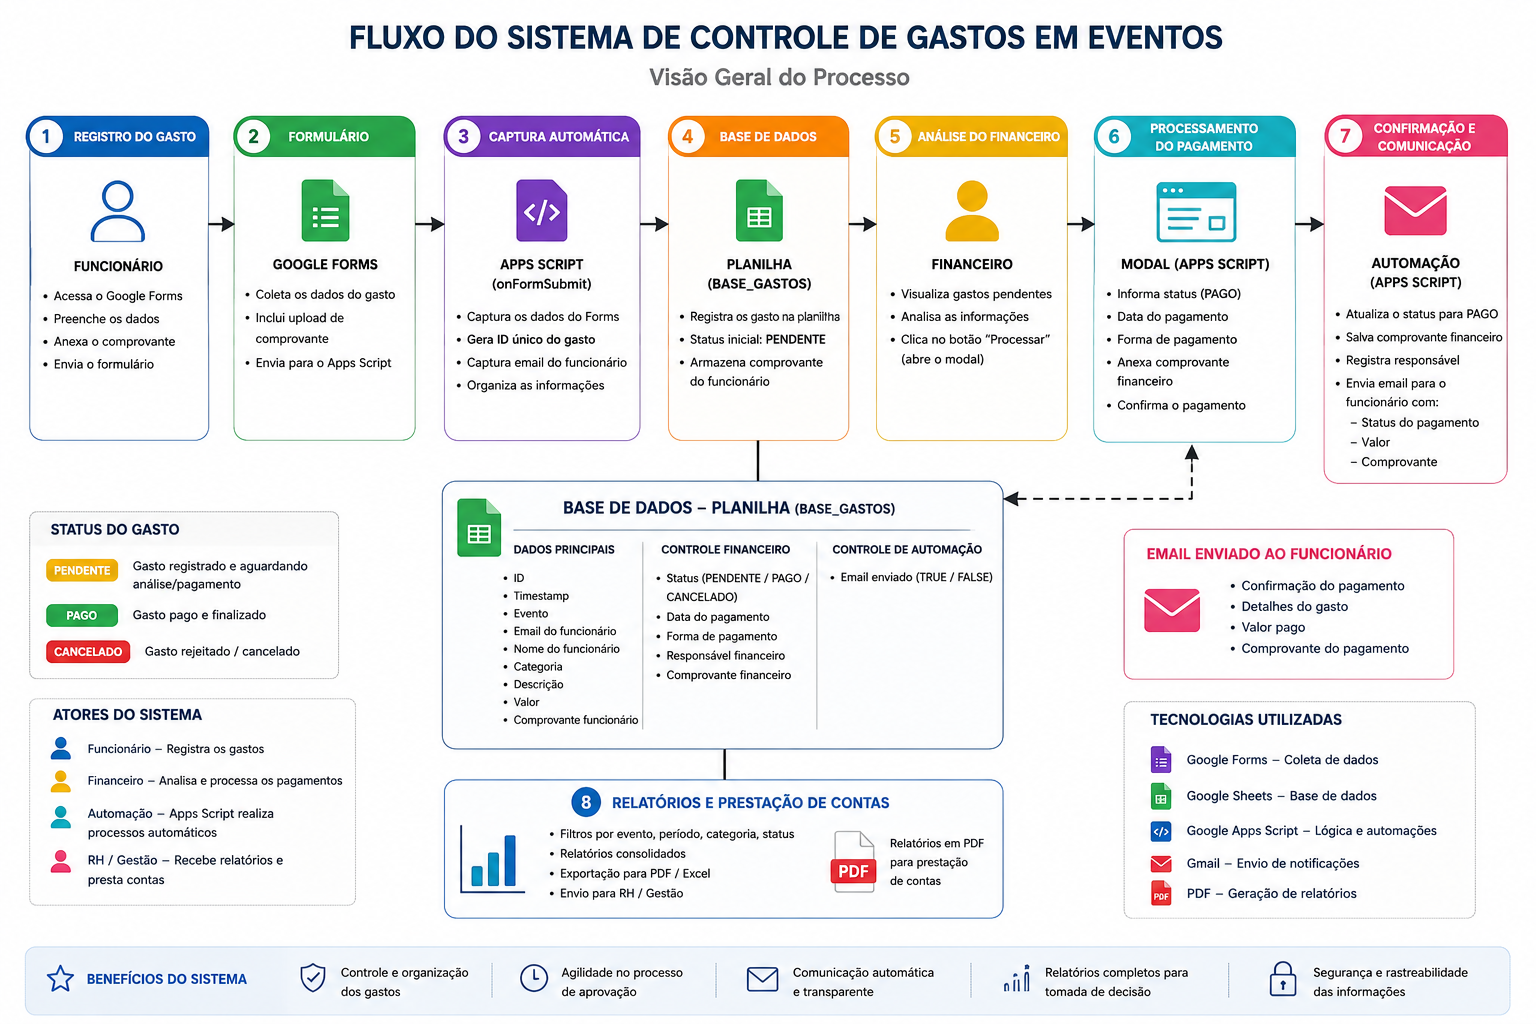
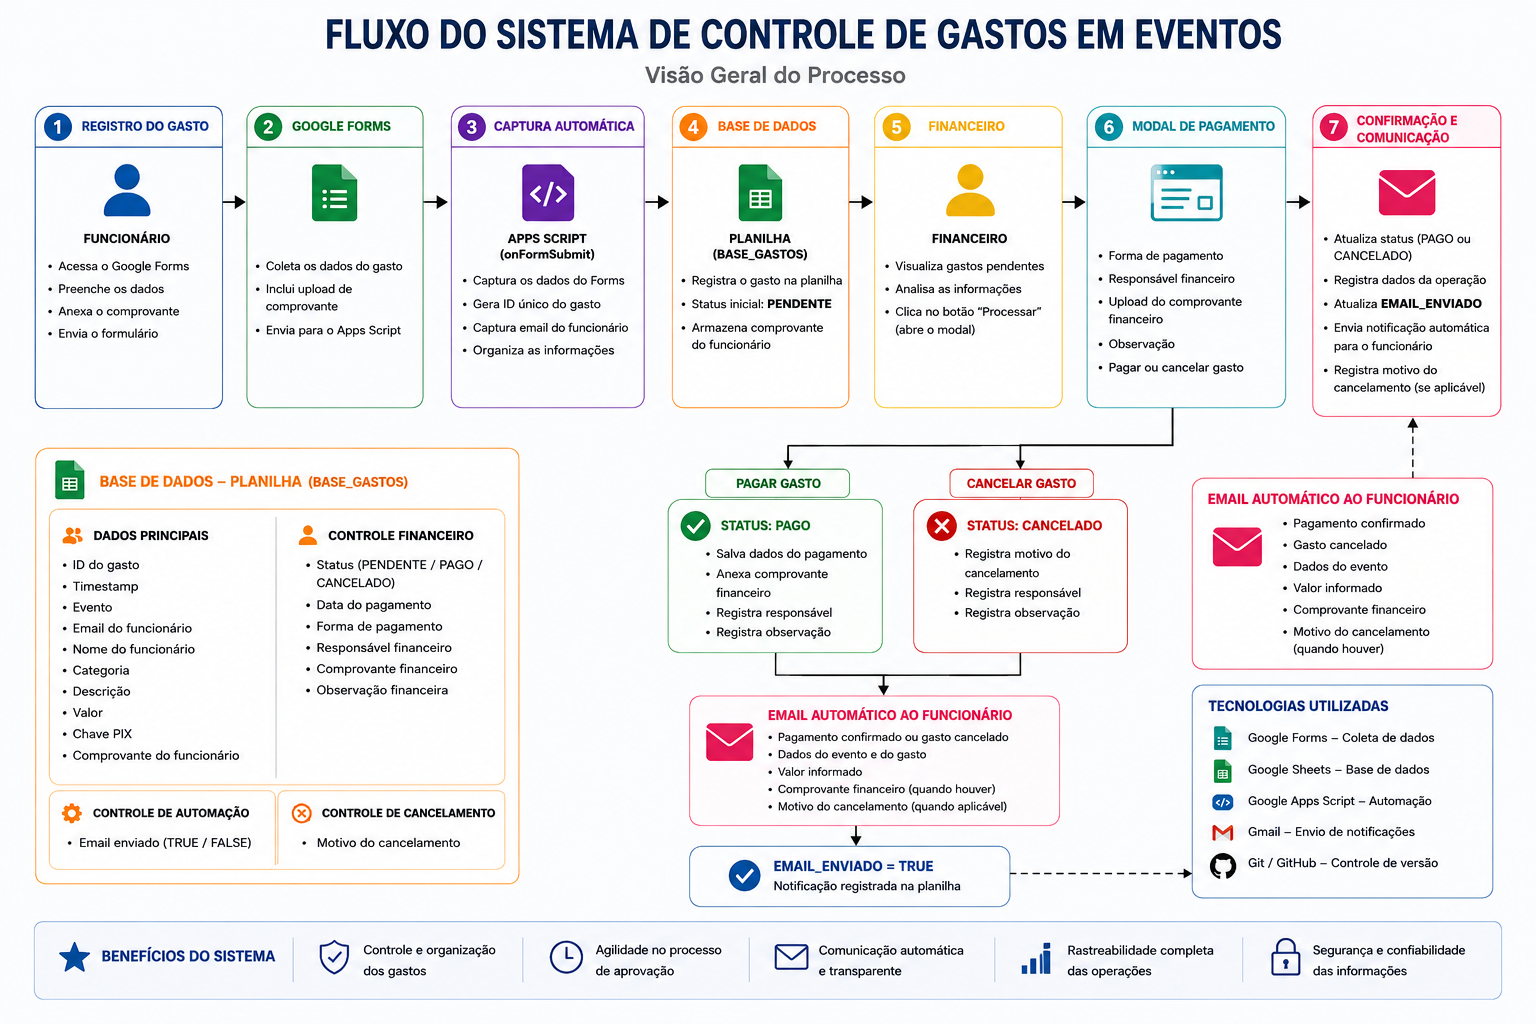
docs: atualiza README e documentação do projeto

Changed region(s): [[0.0, 0.0, 1.0, 1.0]]

diff --git a/README.md b/README.md
@@ -1,37 +1,154 @@
 # Event-Expense-Manager-Novazul
 
-Sistema de controle de gastos em eventos corporativos, desenvolvido com Google Apps Script.
+Sistema de controle e automação de gastos em eventos corporativos, desenvolvido com Google Forms, Google Sheets e Google Apps Script.
 
-## 🚀 Objetivo
+## 🚀 Sobre o Projeto
 
-Automatizar o registro, aprovação e pagamento de gastos realizados por funcionários em eventos.
+Este projeto foi desenvolvido a partir de uma necessidade real observada dentro da Novazul.
+
+Durante a rotina da empresa, o processo de solicitação e pagamento de gastos realizados por funcionários em eventos era feito de forma manual, envolvendo envio de comprovantes por mensagens, conferência de informações, cobranças recorrentes ao setor financeiro e pouca rastreabilidade sobre o status dos pagamentos.
+
+A partir desse cenário, surgiu a ideia de criar uma solução simples, centralizada e automatizada para organizar todo o fluxo de registro, análise e pagamento dos gastos.
+
+O projeto foi idealizado, estruturado e desenvolvido individualmente por Pedro Canuto, utilizando ferramentas do ecossistema Google para garantir baixo custo de implementação, facilidade de manutenção e rápida adoção pela equipe.
+
+---
+
+## 🎯 Objetivo
+
+Automatizar o processo de controle de gastos em eventos corporativos, proporcionando:
+
+* Organização das solicitações
+* Centralização das informações
+* Rastreabilidade dos pagamentos
+* Comunicação automática com os funcionários
+* Redução de atividades manuais do setor financeiro
+
+---
 
 ## 🧠 Funcionalidades
 
-- Registro de gastos via Google Forms
-- Armazenamento em Google Sheets
-- Processamento via Apps Script
-- Interface para financeiro
-- Envio automático de emails
-- Geração de relatórios
+### Registro de Gastos
 
-## 🔄 Fluxo do sistema
+* Solicitação de gastos via Google Forms
+* Upload de comprovantes pelo funcionário
+* Captura automática das respostas
+
+### Automação
+
+* Geração automática de ID único para cada gasto
+* Registro automático na base de dados
+* Atualização automática da área financeira
+
+### Processamento Financeiro
+
+* Visualização dos gastos pendentes
+* Modal para processamento financeiro
+* Registro da forma de pagamento
+* Registro do responsável financeiro
+* Upload do comprovante financeiro
+* Inclusão de observações
+
+### Cancelamento de Gastos
+
+* Cancelamento diretamente pelo financeiro
+* Registro do motivo do cancelamento
+* Atualização automática do status
+
+### Comunicação Automática
+
+* Envio de e-mail quando o gasto é pago
+* Envio de e-mail quando o gasto é cancelado
+* Controle de notificação enviada (TRUE/FALSE)
+
+---
+
+## 🔄 Fluxo do Sistema
 
 ![Fluxo do sistema](docs/docsflow.png)
 
-## 🛠 Tecnologias
+---
 
-- Google Apps Script
-- Google Sheets
-- Google Forms
-- Gmail API
+## 🏗 Arquitetura
 
-## 📁 Estrutura
+### Google Forms
 
-- src/ → lógica do sistema
-- ui/ → interface
-- docs/ → documentação
+Responsável pela coleta das solicitações de gastos realizadas pelos funcionários.
 
-## 📌 Status do projeto
+### Google Apps Script
 
-🚧 Em desenvolvimento
+Responsável por toda a lógica de negócio, automações e integração entre os serviços.
+
+### Google Sheets
+
+Utilizado como base de dados do sistema.
+
+### Gmail
+
+Responsável pelo envio automático das notificações aos funcionários.
+
+### Google Drive
+
+Armazenamento dos comprovantes financeiros.
+
+---
+
+## 🛠 Tecnologias Utilizadas
+
+* Google Apps Script
+* Google Forms
+* Google Sheets
+* Gmail
+* Google Drive
+* Git
+* GitHub
+
+---
+
+## 📁 Estrutura do Projeto
+
+```text
+docs/
+├── docsflow.png
+
+src/
+├── config.gs
+├── formHandler.gs
+├── financeiro.gs
+├── emailService.gs
+├── utils.gs
+├── main.gs
+
+ui/
+├── modalPagamento.html
+```
+
+---
+
+## 📌 Principais Regras de Negócio
+
+* Todo gasto inicia com status PENDENTE
+* Cada gasto possui um ID único
+* Apenas gastos pendentes podem ser processados
+* Todo pagamento exige comprovante financeiro
+* Todo cancelamento exige motivo registrado
+* O sistema envia notificações automáticas ao funcionário
+* O envio da notificação é registrado na base de dados
+
+---
+
+## 📈 Resultados Esperados
+
+* Redução do trabalho manual do setor financeiro
+* Maior controle sobre pagamentos
+* Melhor comunicação entre funcionários e financeiro
+* Histórico centralizado das operações
+* Maior transparência e rastreabilidade do processo
+
+---
+
+## 👨💻 Autor
+
+Pedro Canuto
+
+Projeto desenvolvido como iniciativa de melhoria de processo interno e automação operacional para a Novazul.

diff --git a/docs/requeriments.md b/docs/requeriments.md
@@ -1,31 +1,116 @@
 # Requisitos do Sistema
 
 ## 🎯 Objetivo
-Sistema para controle de gastos em eventos da Novazul.
+
+Sistema para controle e automação do processo de reembolso e pagamento de gastos realizados em eventos da Novazul.
+
+O sistema permite que funcionários registrem despesas através de formulários, enquanto o setor financeiro analisa, aprova, paga ou cancela os gastos, mantendo todo o histórico centralizado e automatizando as comunicações por e-mail.
+
+---
 
 ## 👥 Atores
 
-- Funcionário
-- Financeiro
-- RH
+### Funcionário
 
-## 🔁 Fluxo
+* Registra solicitações de gastos
+* Anexa comprovantes
+* Recebe notificações automáticas
 
-1. Funcionário registra gasto
-2. Sistema captura dados
-3. Gasto é armazenado como PENDENTE
-4. Financeiro processa pagamento
-5. Sistema envia confirmação por email
-6. Relatórios são gerados
+### Financeiro
 
-## 📌 Regras de negócio
+* Analisa gastos pendentes
+* Processa pagamentos
+* Cancela gastos quando necessário
+* Anexa comprovantes financeiros
 
-- Todo gasto inicia como PENDENTE
-- Só pode ser marcado como PAGO com comprovante
-- Email é enviado após pagamento
+### RH / Gestão
 
-## 📊 Status possíveis
+* Consulta informações e histórico dos gastos
 
-- PENDENTE
-- PAGO
-- CANCELADO
+---
+
+## 🔁 Fluxo do Sistema
+
+1. Funcionário registra um gasto através do Google Forms
+2. O Apps Script captura automaticamente os dados enviados
+3. O sistema gera um ID único para o gasto
+4. O gasto é registrado na BASE_GASTOS com status PENDENTE
+5. A aba FINANCEIRO é atualizada automaticamente
+6. O setor financeiro analisa o gasto
+7. O financeiro pode:
+
+   * Processar o pagamento
+   * Cancelar o gasto
+8. Em caso de pagamento:
+
+   * Forma de pagamento é registrada
+   * Responsável financeiro é registrado
+   * Comprovante financeiro é armazenado
+   * Status é atualizado para PAGO
+9. Em caso de cancelamento:
+
+   * Motivo do cancelamento é registrado
+   * Status é atualizado para CANCELADO
+10. O sistema envia automaticamente um e-mail ao funcionário
+11. O campo EMAIL_ENVIADO é atualizado para TRUE
+
+---
+
+## 📌 Regras de Negócio
+
+* Todo gasto inicia com status PENDENTE
+* Cada gasto deve possuir um ID único
+* Apenas gastos pendentes podem ser processados
+* Todo pagamento deve possuir comprovante financeiro
+* Todo cancelamento deve possuir motivo registrado
+* O sistema deve registrar o responsável financeiro da operação
+* O sistema deve enviar notificação automática após pagamento ou cancelamento
+* O campo EMAIL_ENVIADO deve ser atualizado após envio bem-sucedido da notificação
+
+---
+
+## 📊 Status Possíveis
+
+### PENDENTE
+
+Gasto aguardando análise do setor financeiro.
+
+### PAGO
+
+Gasto aprovado e pago pelo financeiro.
+
+### CANCELADO
+
+Gasto rejeitado ou cancelado pelo financeiro.
+
+---
+
+## 📧 Notificações Automáticas
+
+O sistema envia e-mails automáticos para os funcionários contendo:
+
+### Pagamento Confirmado
+
+* ID do gasto
+* Evento
+* Valor
+* Comprovante financeiro
+
+### Gasto Cancelado
+
+* ID do gasto
+* Evento
+* Valor
+* Motivo do cancelamento
+
+---
+
+## 🛠 Tecnologias Utilizadas
+
+* Google Forms
+* Google Sheets
+* Google Apps Script
+* Google Drive
+* Gmail
+* Git
+* GitHub
